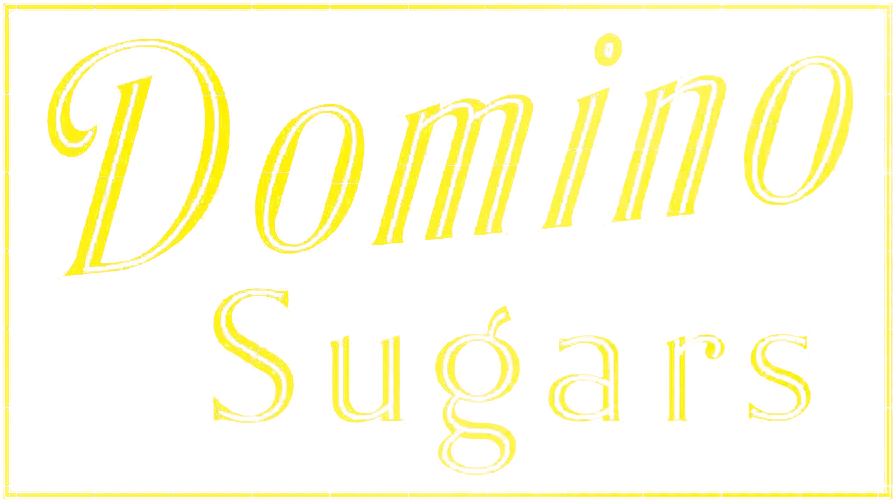
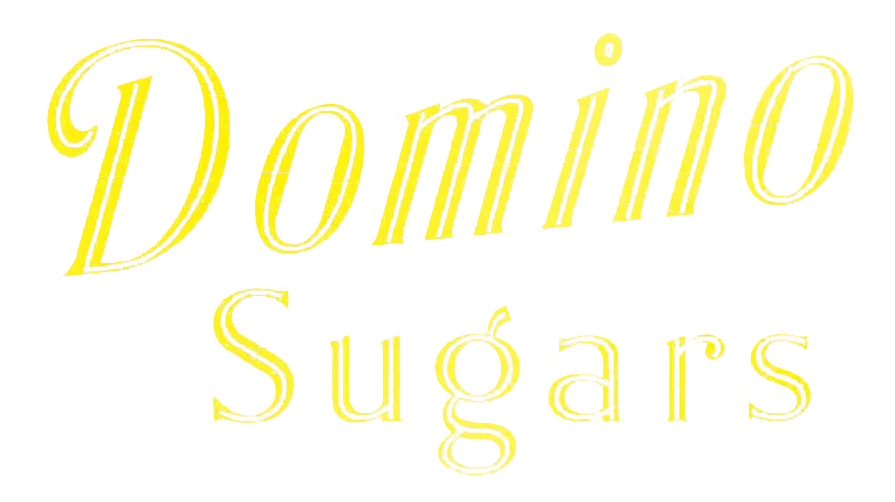
Cleaned Domino and Oregon
addressed blinking domino.  repositioned stag.

Changed region(s): [[0.0, 0.0, 1.0, 1.0]]

diff --git a/Domino.js b/Domino.js
@@ -8,69 +8,41 @@ class DominoSign {
       this.WH = windowHeight;
       this.WW = min(this.WH * (this.Wwh[0] / this.Wwh[1]), windowWidth) * 0.97;
       this.WH = (this.WW * this.Wwh[1]) / this.Wwh[0];
-      // this.DominoImg = loadImage("images/DominoTransparentA.png");
       this.DominoNeon = loadImage("images/domino-neon.png");
-      this.DominoBackGrnd = loadImage("images/domino-background.png");  
+      this.DominoBackGrnd = loadImage("images/domino-background.png"); 
+      this.DominoBackGrndRed = loadImage("images/domino-background-red.png"); 
+      this.DominoBackGrndOrange = loadImage("images/domino-background-orange.png"); 
       this.unit=this.WW/54   
-      this.greenRed=random(100) 
-      this.blueRed=random(100)
-      this.twirlDirection=[1,-1 ]
-   
+      // this.Domino0=this.createNeonDomino(0)
+      // this.Domino1=this.createNeonDomino(1)
+      
+      // Generate random positions for X's
+      this.xPositions = [];
+      let startX = -this.unit * 22.6;
+      let endX = this.unit * 9.1;
+      let spacing = this.unit * 2;
 
-       // Generate random positions for X's
-    this.xPositions = [];
-    let startX = -this.unit * 22.6;
-    let endX = this.unit * 9.1;
-    let spacing = this.unit * 2;
-
-    for (let i = startX; i <= endX - this.unit * 2; i += spacing * 2) {
+      for (let i = startX; i <= endX - this.unit * 2; i += spacing * 2) {
         for (let j = -this.unit * 15; j < windowHeight - this.unit * 2; j += this.unit * 4) {
-            if (Math.random() < 0.5) { // 50% chance to draw an X
-                this.xPositions.push({ x: i, y: j });
-            }
+          if (Math.random() < 0.5) { // 50% chance to draw an X
+            this.xPositions.push({ x: i, y: j });
+          }
         }
+      }
     }
 
+  createNeonDomino(nType){
 
-    }
-
-    
-
-    twirl255(currentColor, increment, twirlDirection){
-    // let increment = random(increment);
-    let TWIRL = random(increment) * twirlDirection;
-    let newColor=currentColor+TWIRL
-    if (newColor >= 155) {
-      newColor = 155;
-        twirlDirection = -1;
-    } else if (newColor <= 0) {
-      newColor = 0;
-        twirlDirection = 1;
-    }
-    // debugger
-    return [newColor, twirlDirection]
-  }
-  createNeonDomino(xxx){
     const whiteImageColorWorkingCopy = this.DominoBackGrnd;
-    let neonFlash=110
-        const buffer = createGraphics(this.DominoBackGrnd.width, this.DominoBackGrnd.height);
-       
-        let TW=this.twirl255(this.greenRed, neonFlash, this.twirlDirection[0]);
-        this.twirlDirection[0]=TW[1]
-        this.greenRed=TW[0];
-        
-        TW=this.twirl255(this.blueRed, neonFlash, this.twirlDirection[1]);
-        this.twirlDirection[1]=TW[1]
-        this.blueRed=TW[0];
-        this.blueRed=100+(xxx*55/20)
-        this.greenRed=(20-xxx)*255/25
-        buffer.tint(color(255,this.greenRed, this.blueRed));
-       
-        buffer.image(whiteImageColorWorkingCopy, 0, 0);
-        let cvoil = buffer;
-       
-        return cvoil;
-    }
+    const buffer = createGraphics(this.DominoBackGrnd.width, this.DominoBackGrnd.height);
+    let greener=155+(nType*10)
+    let bluer=255*-(nType*20)
+    buffer.tint(color(255,greener,bluer));
+    buffer.image(whiteImageColorWorkingCopy, 0, 0);
+    let cvoil = buffer;
+    
+    return cvoil;
+  }
     drawDominoGirders(){
       // Draw shadow girders
         stroke(37); // Set stroke color to xxx
@@ -90,13 +62,10 @@ class DominoSign {
         }
     }
 
-    
   sugarPile(xxx,yyy){
       push()
       fill(255) 
       stroke(255)
-      
-      // POWDER
       translate(9.28*this.unit,0)
       strokeWeight(0)
       for (var t=0;t<16*this.unit;t=t+2){
@@ -129,10 +98,16 @@ class DominoSign {
         this.drawDominoGirders()
        
         image(this.DominoNeon,-this.unit*23,-this.unit*15,this.unit*32.4,this.unit*18)
-        image(this.createNeonDomino(xxx),-this.unit*23,-this.unit*15,this.unit*32.4,this.unit*18)
+        // image(this.createNeonDomino(xxx),-this.unit*23,-this.unit*15,this.unit*32.4,this.unit*18)
+        let i=int(random(3))
+        if(i===1)image(this.DominoBackGrnd,-this.unit*23,-this.unit*15,this.unit*32.4,this.unit*18)
+        if(i===0) image(this.DominoBackGrndRed,-this.unit*23,-this.unit*15,this.unit*32.4,this.unit*18)
+        if(i===2) image(this.DominoBackGrndOrange,-this.unit*23,-this.unit*15,this.unit*32.4,this.unit*18)
+
+        
         // let i=int(random(5))
         // this.createNeonDomino(i)
-        image(this.createNeonDomino(int(random(20))),-this.unit*23,-this.unit*15,this.unit*32.4,this.unit*18)
+        // image(this.createNeonDomino(int(random(20))),-this.unit*23,-this.unit*15,this.unit*32.4,this.unit*18)
         // image(this.DominoBackGrnd,-this.unit*23,-this.unit*15,this.unit*32.4,this.unit*18)
         this.sugarPile(xxx,yyy)
 

diff --git a/Bakery.js b/Bakery.js
@@ -186,8 +186,8 @@ class BakerySign {
   
     push()
     translate(this.unit*4.75,0)
-    var xxx = -1 + round((4 * mouseX) / windowWidth, 2);
-    var yyy = 0 + round((3 * mouseY) / windowHeight, 2);  
+    var xxx = 5 + round((24 * mouseX) / windowWidth, 2);
+    var yyy = 5 + round((5 * mouseY) / windowHeight, 2);  
    
     coloredARC(this.step,  this.unit, xxx, yyy);
     rightCircles( this.unit,this.WW, xxx,yyy); //    findtheLostImage(, 3, this.step);
@@ -220,6 +220,68 @@ class BakerySign {
       printXY(xxx, yyy, this.unit, 0, Date.now(), printText[pTextk++],printText[pTextk++],printText[pTextk++],printText[pTextk++],printText[pTextk++],printText[pTextk++]);
   }
   }
+}
+function coloredARC(stepCount,  unit,xxx,yyy) {
+  
+  var Warc=unit*14
+  var Ydim = [0, 0];
+  var ArcColor = stepCount * 4;
+  push();
+  strokeWeight(unit/9)
+  // DRAW THE ARC ///////////////////////////////////////////
+  translate(unit*-10, unit*1);
+  var arcSpeed = 5;
+  push()
+  stroke(222,222,2)
+  strokeWeight(unit*.1)
+  ellipse(unit*7.3, unit*0, 14.6*unit, 5.2*unit)
+  fill(0)
+  strokeWeight(0)
+  rect(unit*-5,unit*-.01, unit*20,unit*30)
+  strokeWeight(0)
+  fill(222,222,2)
+  fill(0)
+  ellipse(unit*12.12,unit*-1.5,unit*3)
+  // rect(unit*xxx, unit*yyy, unit*20, unit*20)
+  pop()
+    for (var j = 0; j < arcSpeed * Warc * 0.75; j = j + 5) {
+      Ydim[1] = Ydim[0];
+      Ydim[0] = (-height / 3) * emblemTop(Warc, j / arcSpeed, 0.95, 0.75);
+      if (j > 1) {
+        ArcColor = (ArcColor +359) % 360
+        stroke(color("hsla(" + ArcColor + ", 100%, 50%, 1)"));
+        line((j - 1) / arcSpeed, Ydim[1 + 1], j / arcSpeed, Ydim[0]);
+      }
+    }
+  // FINISH THE ARC /////////////////////////
+  
+  ////  DRAW THE LEFT STARBURST
+  strokeWeight(0);
+  rotate((random() * stepCount) % 10);
+
+  var Burst = [];
+  for (var m = 0; m < 5; m++)
+    Burst[m] = (unit*.75) * [1, 0.75, 0.5, 0.25, 0.1][m];
+
+  var IPsin = [];
+  var IPcos = [];
+  var maxBs = random([0, 1, 2]);
+  for (var k = maxBs; k < 5; k++) {
+    fill(random(150), random(150), random(150));
+    for (m = 0; m < 3; m++) {
+      var triPoints = [
+        PI * (0 + (2 / 9) * m),
+        PI * (6 / 9 + (2 / 9) * m),
+        PI * (12 / 9 + (2 / 9) * m)
+      ];
+      for (j = 0; j < 3; j++) {
+        IPsin[j] = random(0.8, 1) * Burst[k] * sin(triPoints[j] + random(0.3));
+        IPcos[j] = random(0.8, 1) * Burst[k] * cos(triPoints[j] + random(0.3));
+      }
+      triangle(IPcos[0], IPsin[0], IPcos[1], IPsin[1], IPcos[2], IPsin[2]);
+    }
+  }
+  pop();
 }
 
 function emblemBottom(length, index) {
@@ -292,58 +354,7 @@ function rightCircles( unit,WW, xxx,yyy) {
   pop();
 }
 
-function coloredARC(stepCount,  unit,xxx,yyy) {
-  
-  var Warc=unit*14
-  var Ydim = [0, 0];
-  var ArcColor = stepCount * 4;
 
-  push();
-  strokeWeight(unit/9)
-
-  // DRAW THE ARC ///////////////////////////////////////////
-  translate(unit*-10, unit*1);
-  
-  var arcSpeed = 5;
-  for (var j = 0; j < arcSpeed * Warc * 0.75; j = j + 5) {
-    Ydim[1] = Ydim[0];
-    Ydim[0] = (-height / 3) * emblemTop(Warc, j / arcSpeed, 0.95, 0.75);
-    if (j > 1) {
-      ArcColor = (ArcColor +359) % 360
-      stroke(color("hsla(" + ArcColor + ", 100%, 50%, 1)"));
-      line((j - 1) / arcSpeed, Ydim[1 + 1], j / arcSpeed, Ydim[0]);
-    }
-  }
-  // FINISH THE ARC /////////////////////////
-  
-  ////  DRAW THE LEFT STARBURST
-  strokeWeight(0);
-  rotate((random() * stepCount) % 10);
-
-  var Burst = [];
-  for (var m = 0; m < 5; m++)
-    Burst[m] = (unit*.75) * [1, 0.75, 0.5, 0.25, 0.1][m];
-
-  var IPsin = [];
-  var IPcos = [];
-  var maxBs = random([0, 1, 2]);
-  for (var k = maxBs; k < 5; k++) {
-    fill(random(150), random(150), random(150));
-    for (m = 0; m < 3; m++) {
-      var triPoints = [
-        PI * (0 + (2 / 9) * m),
-        PI * (6 / 9 + (2 / 9) * m),
-        PI * (12 / 9 + (2 / 9) * m)
-      ];
-      for (j = 0; j < 3; j++) {
-        IPsin[j] = random(0.8, 1) * Burst[k] * sin(triPoints[j] + random(0.3));
-        IPcos[j] = random(0.8, 1) * Burst[k] * cos(triPoints[j] + random(0.3));
-      }
-      triangle(IPcos[0], IPsin[0], IPcos[1], IPsin[1], IPcos[2], IPsin[2]);
-    }
-  }
-  pop();
-}
 
 function rotate_and_draw_image(  theImage,  img_x,  img_y,  img_width,  img_height,  img_angle) {
   imageMode(CENTER);

diff --git a/WhiteStag.js b/WhiteStag.js
@@ -6,6 +6,7 @@ class StagSign {
       this.WH = windowHeight;
       this.WW = min(this.WH * (16 / 18), windowWidth) * 0.97;
       this.WH = (this.WW * 18) / 16;
+      this.unit=this.WH/16
   
       this.VisibleWidth = this.WW / windowWidth;
       this.leftBorder = (windowWidth * (1 - this.VisibleWidth)) / 2;
@@ -21,16 +22,6 @@ class StagSign {
         this.stagDim[1],
         StagOnly,
         this.blinkMonth
-      );
-    }
-  
-    stagImage(ttt) {
-      image(
-        this.StagLinedImages[ttt],
-        this.leftBorder + this.WW / 2 - this.StagLinedImages[0].width * 0.4,
-        0,
-        this.stagDim[0],
-        this.stagDim[1]
       );
     }
   
@@ -55,12 +46,10 @@ class StagSign {
     }
     redNose(xxx, yyy) {
       push();
-      // translate(this.leftBorder, this.topBorder);
-      fill(250, 0, 0);
-        for (var k = 0; k < 100; k++) {
+    
+      for (var k = 0; k < 100; k++) {
         strokeWeight(this.WW / (10 + k));
         stroke(2.55 * k, 0, 0);
-        strokeWeight(0);
         fill(2.55 * k, 0, 0);
         ellipse(
           this.leftBorder + (11 * this.WW) / 16,
@@ -76,49 +65,47 @@ class StagSign {
       var yyy = 0 + round((15 * mouseY) / windowHeight, 1);
       var dn = Date.now();
       background(0)
-      
   
-      poSpleckle(this.OLU);
-      image(StagFoto, this.OLU[0], this.OLU[1], this.OLU[2], this.OLU[3]); //  WHITE LETTERING
       push()
-      fill(0)
-      strokeWeight(0)
-      rect(this.OLU[0], this.OLU[1],windowWidth/2.5,windowHeight/196)
-      rect(this.OLU[0], this.OLU[1],windowWidth/196,this.OLU[3])
+      translate(0,this.unit*1)
+      poSpleckle(this.OLU);
       
-      rect(this.OLU[0], this.OLU[1]+this.OLU[3],windowWidth/2.5,windowHeight/196)
-      rect(this.OLU[0]+this.OLU[2], this.OLU[1],windowWidth/196,this.OLU[3])
+      image(StagFoto, this.OLU[0], this.OLU[1], this.OLU[2], this.OLU[3]); //  WHITE LETTERING
       pop()
-      image(
-        OregonFoto,
-        this.leftBorder,
-        this.topBorder + this.WH / 6,
-        this.WW,
-        (this.WH * 14) / 18
-      );
+      image( OregonFoto, this.leftBorder, this.topBorder + this.WH / 6, this.WW,(this.WH * 14) / 18 );
       this.oldTOWN();
   
-      var ttt = 4 + int((15 * (dn % 60000)) / 50000);
-      if (dn % 60000 > 50000) ttt = 5 + int(random(18));
+      var whichStag = 4 + int((15 * (dn % 60000)) / 50000);
+      if (dn % 60000 > 50000) whichStag = 5 + int(random(18));
   
-      this.stagImage(ttt);
+      image( this.StagLinedImages[whichStag], this.leftBorder + this.WW / 2 - this.StagLinedImages[0].width * 0.4, this.unit*.5, this.stagDim[0], this.stagDim[1] );
+
       if (month() === this.blinkMonth) this.redNose(xxx, yyy);
-      // printXY(xxx, yyy, this.WW / 16, 0, dn);
+      
+      if (5 === 5  / 2) {
+        push()
+        translate(windowWidth/2,windowHeight/2)
+        newRectOverlay(this.unit,18,16,1)
+        pop()
+        translate(4.4*this.unit,10.1*this.unit)
+        var printText=[]
+        var pTextk=0
+        printXY(xxx, yyy, this.unit, 0, Date.now(), printText[pTextk++],printText[pTextk++],printText[pTextk++],printText[pTextk++],printText[pTextk++],printText[pTextk++]);
+      }
+
     }
   }
   function stagSpeckle(ssW, ssH, stagOnly, blinkMonth) {
-    // fill(250,0,0)
-    // rect(0,0,500,500)
     let StagLines = [];
     yB = createGraphics(ssW, ssH);
+    yB.strokeWeight(windowWidth / 256);
+  
     for (var k = 0; k < 24; k++) {
-      yB.background(0, 40, 40);
       yB.background(0)
       for (var j = 0; j < 24; j++) {
         var yBcolor = 215 + random(50);
         if (month() === blinkMonth) yBcolor = [0, 255, 0];
         if (j > k) yBcolor = 50;
-        yB.strokeWeight(windowWidth / 256);
         yB.stroke(yBcolor);
         yB.fill(yBcolor);
         var x1 = [-24 + j * 2, j * 2];

diff --git a/sketch.js b/sketch.js
@@ -301,7 +301,7 @@ function draw() {
 //////////////////////////////////////////////////////////////////////////
 // Which signTime = [hour(), minute(), second(), 60, 300];
 //  WhichSign=int(((Date.now() % 300000)/1000)/(300/29))
-// WhichSign=8
+WhichSign=26
 //////////////////////////////////////////////////////////////////////////
 frameRate(25);
 if (WhichSign===17) frameRate(10)
